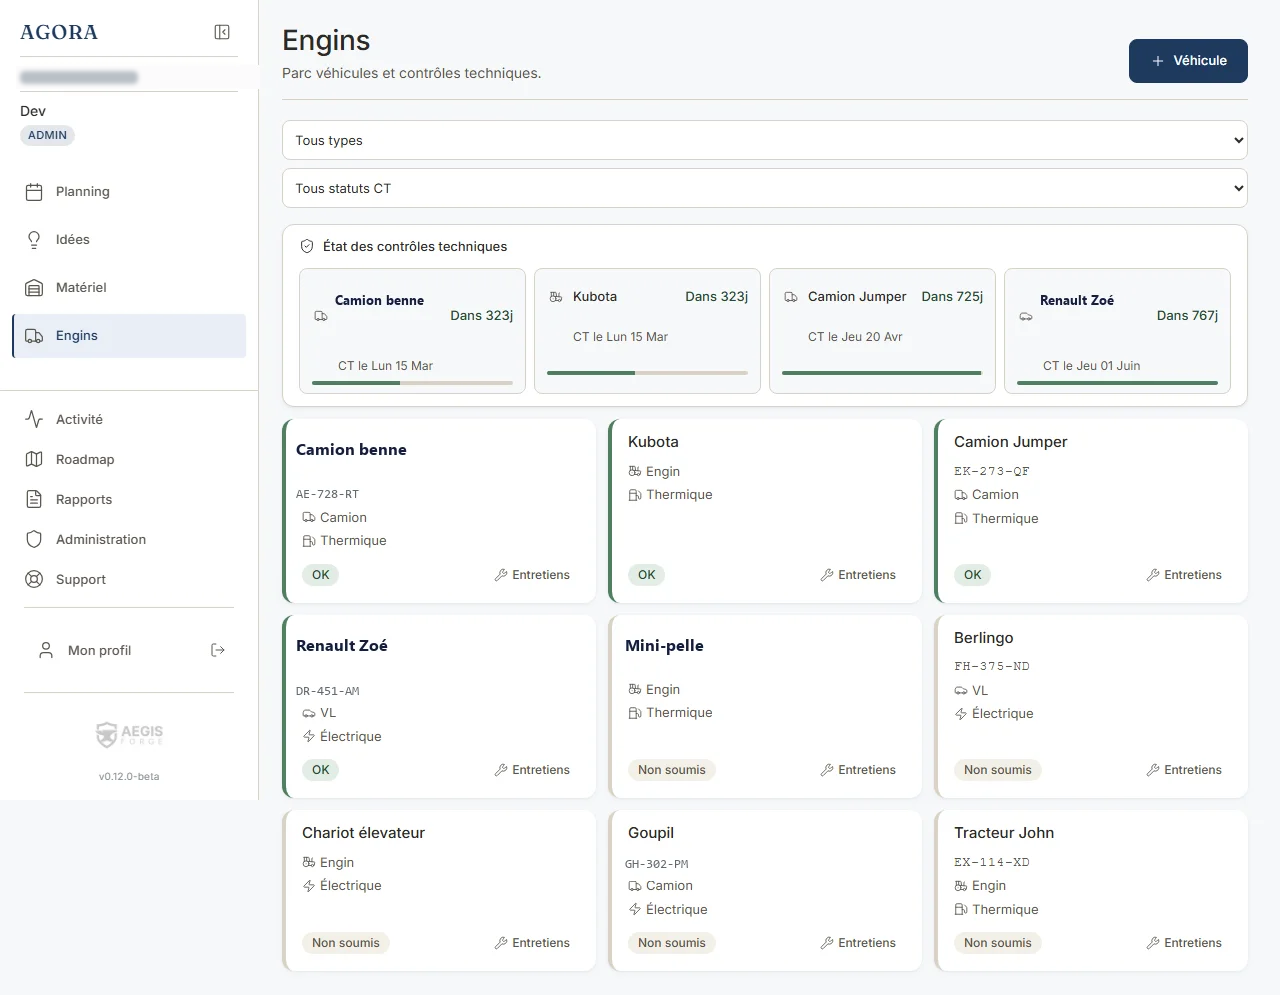
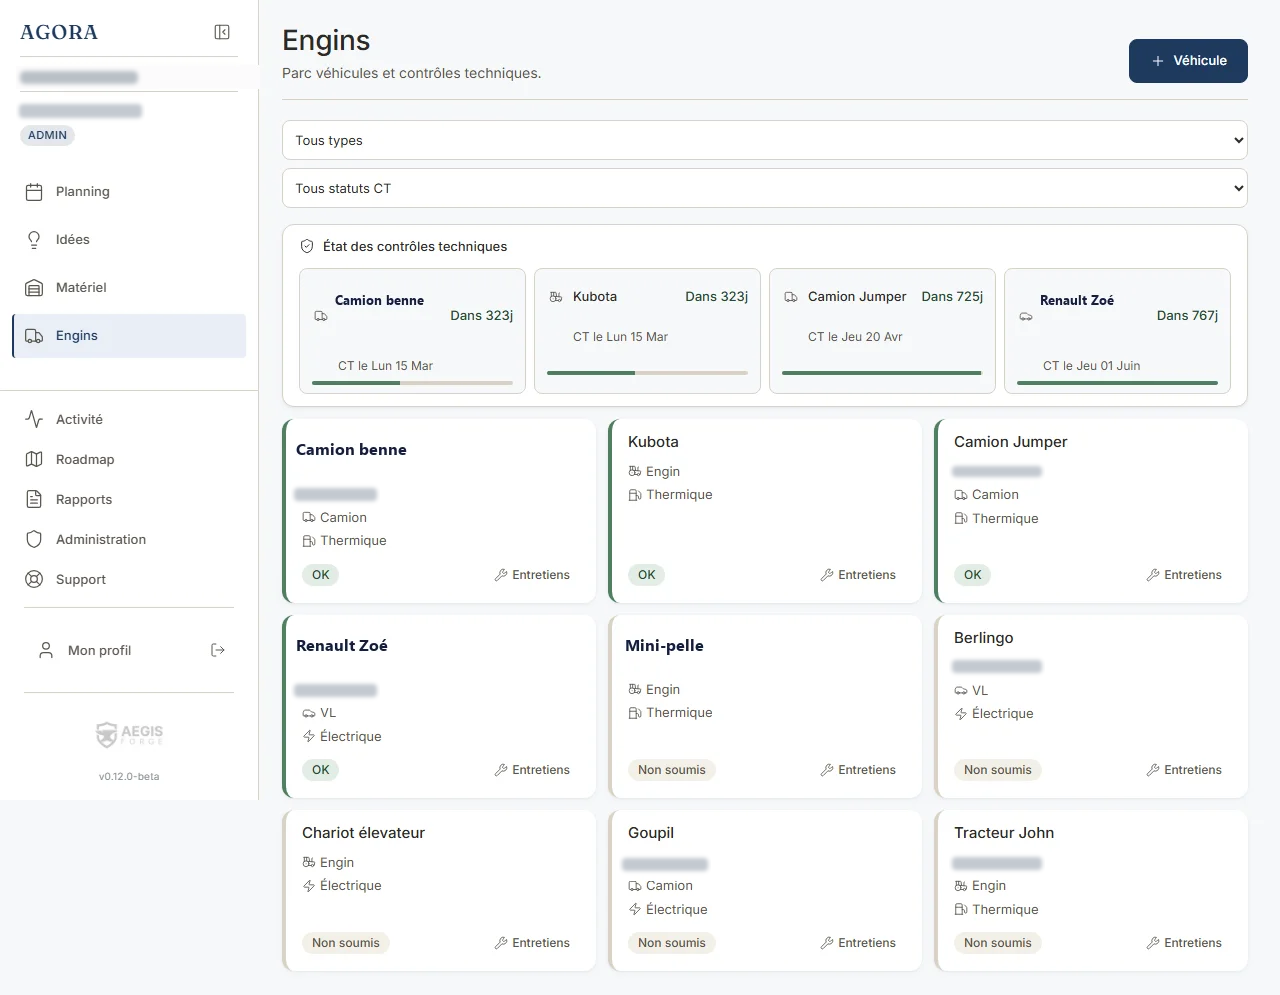
Masquer les noms et immatriculations dans les captures AGORA

diff --git a/aegis-agora.html b/aegis-agora.html
@@ -5,7 +5,7 @@
 <meta name="viewport" content="width=device-width, initial-scale=1.0">
 <title>AGORA — De l’élu au terrain, des missions qui avancent</title>
 
-<meta http-equiv="Content-Security-Policy" content="default-src 'self'; script-src 'self' 'sha256-G3Z6zStrsZf69cKpjCt6LJweNEQj/l9zy1Bid3Ov1wc=' 'sha256-UsA5sYOvr/bqsvr7lsPN4ZwRtM/QRWDS838UJZCDsBk='; style-src 'self' 'unsafe-inline'; font-src 'self'; img-src 'self' data:; connect-src 'self' https://formspree.io; form-action 'self' https://formspree.io; base-uri 'self'; object-src 'none'; upgrade-insecure-requests">
+<meta http-equiv="Content-Security-Policy" content="default-src 'self'; script-src 'self' 'sha256-6Fdkka4LGUMbRGab0dWUNYXVfrBVEZEZehIX5/HOPLs=' 'sha256-UsA5sYOvr/bqsvr7lsPN4ZwRtM/QRWDS838UJZCDsBk='; style-src 'self' 'unsafe-inline'; font-src 'self'; img-src 'self' data:; connect-src 'self' https://formspree.io; form-action 'self' https://formspree.io; base-uri 'self'; object-src 'none'; upgrade-insecure-requests">
 <meta name="referrer" content="strict-origin-when-cross-origin">
 <meta name="robots" content="index, follow, max-snippet:-1, max-image-preview:large">
 <meta name="description" content="AGORA relie l’élu qui pilote les missions à l’agent sur le terrain : suivi, photos, géolocalisation des interventions et planning pour prévoir la suite.">
@@ -16,13 +16,13 @@
 <meta property="og:site_name" content="AEGIS Forge">
 <meta property="og:title" content="AGORA — De l’élu au terrain, des missions qui avancent">
 <meta property="og:description" content="AGORA relie l’élu qui pilote les missions à l’agent sur le terrain : suivi, photos, géolocalisation des interventions et planning pour prévoir la suite.">
-<meta property="og:image" content="https://aegis-forge.fr/rss/agora-screen-planning.webp?v=b95d5cf0dc">
+<meta property="og:image" content="https://aegis-forge.fr/rss/agora-screen-planning.webp?v=dc9353b21d">
 <meta property="og:locale" content="fr_FR">
 
 <meta name="twitter:card" content="summary_large_image">
 <meta name="twitter:title" content="AGORA — De l’élu au terrain, des missions qui avancent">
 <meta name="twitter:description" content="AGORA relie l’élu qui pilote les missions à l’agent sur le terrain : suivi, photos, géolocalisation des interventions et planning pour prévoir la suite.">
-<meta name="twitter:image" content="https://aegis-forge.fr/rss/agora-screen-planning.webp?v=b95d5cf0dc">
+<meta name="twitter:image" content="https://aegis-forge.fr/rss/agora-screen-planning.webp?v=dc9353b21d">
 
 <script type="application/ld+json">
 {
@@ -33,7 +33,7 @@
   "operatingSystem": "Web",
   "description": "AGORA relie l’élu qui pilote les missions à l’agent sur le terrain : suivi, photos, géolocalisation des interventions et planning pour prévoir la suite.",
   "url": "https://aegis-forge.fr/aegis-agora.html",
-  "image": "https://aegis-forge.fr/rss/agora-screen-planning.webp?v=b95d5cf0dc",
+  "image": "https://aegis-forge.fr/rss/agora-screen-planning.webp?v=dc9353b21d",
   "inLanguage": "fr",
   "publisher": {
     "@type": "Organization",
@@ -102,7 +102,7 @@
         <div class="product-actions"><a href="mailto:contact@aegis-forge.fr?subject=Pr%C3%A9sentation%20AGORA" class="btn btn-ink js-aegis-contact">Demander une présentation</a><a href="#parcours-usage" class="product-link">Suivre une mission <span aria-hidden="true">↓</span></a></div>
         <p class="product-note">En pilote dans une commune partenaire depuis mai 2026.<br>Un premier échange sans frais pour parler de vos usages.</p>
       </div>
-      <figure class="product-hero-visual"><img src="rss/agora-screen-planning.webp?v=b95d5cf0dc" alt="AGORA : le planning mensuel des interventions et des tâches municipales" width="1280" height="1140" fetchpriority="high" decoding="async" data-lightbox><figcaption>Le planning, point de rencontre entre les missions à réaliser et la préparation des prochaines interventions. Capture réelle du pilote, à agrandir.</figcaption></figure>
+      <figure class="product-hero-visual"><img src="rss/agora-screen-planning.webp?v=dc9353b21d" alt="AGORA : le planning mensuel des interventions et des tâches municipales" width="1280" height="1140" fetchpriority="high" decoding="async" data-lightbox><figcaption>Le planning, point de rencontre entre les missions à réaliser et la préparation des prochaines interventions. Capture réelle du pilote, à agrandir.</figcaption></figure>
     </section>
   </div>
 
@@ -150,9 +150,9 @@
       <div class="product-section-heading"><div><p class="product-eyebrow">Les moyens au service des missions</p><h2 id="modules-heading">Un planning pour prévoir.<br>Des moyens pour intervenir.</h2></div><p>Le planning, le matériel, les véhicules et les absences complètent ce suivi. Ils aident à organiser les missions en tenant compte des moyens de la commune.</p></div>
       <div class="usage-gallery" data-product-gallery>
         <div class="gallery-controls" aria-label="Les vues de l’application" hidden><button type="button" data-gallery-target="usage-planning" aria-controls="usage-planning" aria-pressed="true">Planning</button><button type="button" data-gallery-target="usage-materiel" aria-controls="usage-materiel" aria-pressed="false">Matériel</button><button type="button" data-gallery-target="usage-vehicules" aria-controls="usage-vehicules" aria-pressed="false">Véhicules</button></div>
-        <figure class="gallery-panel" id="usage-planning"><figcaption><p class="usage-number">Planning partagé</p><h3>Relier le suivi à la prévision.</h3><p>Le planning rassemble les missions à réaliser. Les retours du terrain sont pris en compte pour ajuster leur organisation et prévoir les prochaines interventions.</p><p class="usage-result"><strong>Le repère commun :</strong> les missions prévues et celles à réorganiser à partir du suivi des agents.</p></figcaption><img src="rss/agora-screen-planning.webp?v=b95d5cf0dc" alt="AGORA : les tâches municipales réparties sur le calendrier" width="1280" height="1140" loading="lazy" decoding="async" data-lightbox></figure>
-        <figure class="gallery-panel" id="usage-materiel"><figcaption><p class="usage-number">Matériel disponible</p><h3>Consulter le matériel disponible.</h3><p>L’inventaire rassemble les équipements et les informations sur leur disponibilité. L’équipe retrouve le matériel utile à l’intervention.</p><p class="usage-result"><strong>À regarder :</strong> les équipements nécessaires, le stock et les réservations.</p></figcaption><img src="rss/agora-screen-materiel.webp?v=d2a6d1610d" alt="AGORA : inventaire des équipements et disponibilités" width="1280" height="1155" loading="lazy" decoding="async" data-lightbox></figure>
-        <figure class="gallery-panel" id="usage-vehicules"><figcaption><p class="usage-number">Parc municipal</p><h3>Retrouver le véhicule et son suivi.</h3><p>La vue des engins centralise les véhicules, leurs contrôles et les entretiens. Elle apporte les informations utiles à la préparation du déplacement.</p><p class="usage-result"><strong>À regarder :</strong> le véhicule concerné et les échéances de son entretien.</p></figcaption><img src="rss/agora-screen-engins.webp?v=d6bd8ac646" alt="AGORA : le parc municipal et le suivi des contrôles et entretiens" width="1280" height="995" loading="lazy" decoding="async" data-lightbox></figure>
+        <figure class="gallery-panel" id="usage-planning"><figcaption><p class="usage-number">Planning partagé</p><h3>Relier le suivi à la prévision.</h3><p>Le planning rassemble les missions à réaliser. Les retours du terrain sont pris en compte pour ajuster leur organisation et prévoir les prochaines interventions.</p><p class="usage-result"><strong>Le repère commun :</strong> les missions prévues et celles à réorganiser à partir du suivi des agents.</p></figcaption><img src="rss/agora-screen-planning.webp?v=dc9353b21d" alt="AGORA : les tâches municipales réparties sur le calendrier" width="1280" height="1140" loading="lazy" decoding="async" data-lightbox></figure>
+        <figure class="gallery-panel" id="usage-materiel"><figcaption><p class="usage-number">Matériel disponible</p><h3>Consulter le matériel disponible.</h3><p>L’inventaire rassemble les équipements et les informations sur leur disponibilité. L’équipe retrouve le matériel utile à l’intervention.</p><p class="usage-result"><strong>À regarder :</strong> les équipements nécessaires, le stock et les réservations.</p></figcaption><img src="rss/agora-screen-materiel.webp?v=919fd4139d" alt="AGORA : inventaire des équipements et disponibilités" width="1280" height="1155" loading="lazy" decoding="async" data-lightbox></figure>
+        <figure class="gallery-panel" id="usage-vehicules"><figcaption><p class="usage-number">Parc municipal</p><h3>Retrouver le véhicule et son suivi.</h3><p>La vue des engins centralise les véhicules, leurs contrôles et les entretiens. Elle apporte les informations utiles à la préparation du déplacement.</p><p class="usage-result"><strong>À regarder :</strong> le véhicule concerné et les échéances de son entretien.</p></figcaption><img src="rss/agora-screen-engins.webp?v=090fcf4131" alt="AGORA : le parc municipal et le suivi des contrôles et entretiens" width="1280" height="995" loading="lazy" decoding="async" data-lightbox></figure>
         <p class="product-note">Captures réelles du pilote. Sélectionnez une vue, puis sa capture pour l’agrandir.</p>
       </div>
       <div class="product-functions"><article class="product-function"><h3>Un planning partagé</h3><p>Consulter les tâches, les interventions et les absences pour organiser l’activité des agents.</p></article><article class="product-function"><h3>Un inventaire du matériel</h3><p>Retrouver les équipements, leur état, les stocks et les réservations dans un espace commun.</p></article><article class="product-function"><h3>Le suivi des véhicules</h3><p>Rassembler les informations du parc municipal et les échéances de contrôle ou d’entretien.</p></article><article class="product-function"><h3>Les congés et les absences</h3><p>Centraliser les demandes et leur validation, avec les absences prises en compte dans le planning.</p></article></div>

diff --git a/aegis-forge.html b/aegis-forge.html
@@ -113,7 +113,7 @@
               <div class="work-media agora-media">
                 <div class="agora-window">
                   <div class="window-bar" aria-hidden="true"><i></i><i></i><i></i></div>
-                  <img src="rss/agora-screen-planning.webp?v=b95d5cf0dc" alt="Planning mensuel dans AGORA" width="1280" height="1140" loading="lazy" decoding="async">
+                  <img src="rss/agora-screen-planning.webp?v=dc9353b21d" alt="Planning mensuel dans AGORA" width="1280" height="1140" loading="lazy" decoding="async">
                 </div>
               </div>
               <div class="work-copy">

diff --git a/index.html b/index.html
@@ -113,7 +113,7 @@
               <div class="work-media agora-media">
                 <div class="agora-window">
                   <div class="window-bar" aria-hidden="true"><i></i><i></i><i></i></div>
-                  <img src="rss/agora-screen-planning.webp?v=b95d5cf0dc" alt="Planning mensuel dans AGORA" width="1280" height="1140" loading="lazy" decoding="async">
+                  <img src="rss/agora-screen-planning.webp?v=dc9353b21d" alt="Planning mensuel dans AGORA" width="1280" height="1140" loading="lazy" decoding="async">
                 </div>
               </div>
               <div class="work-copy">
